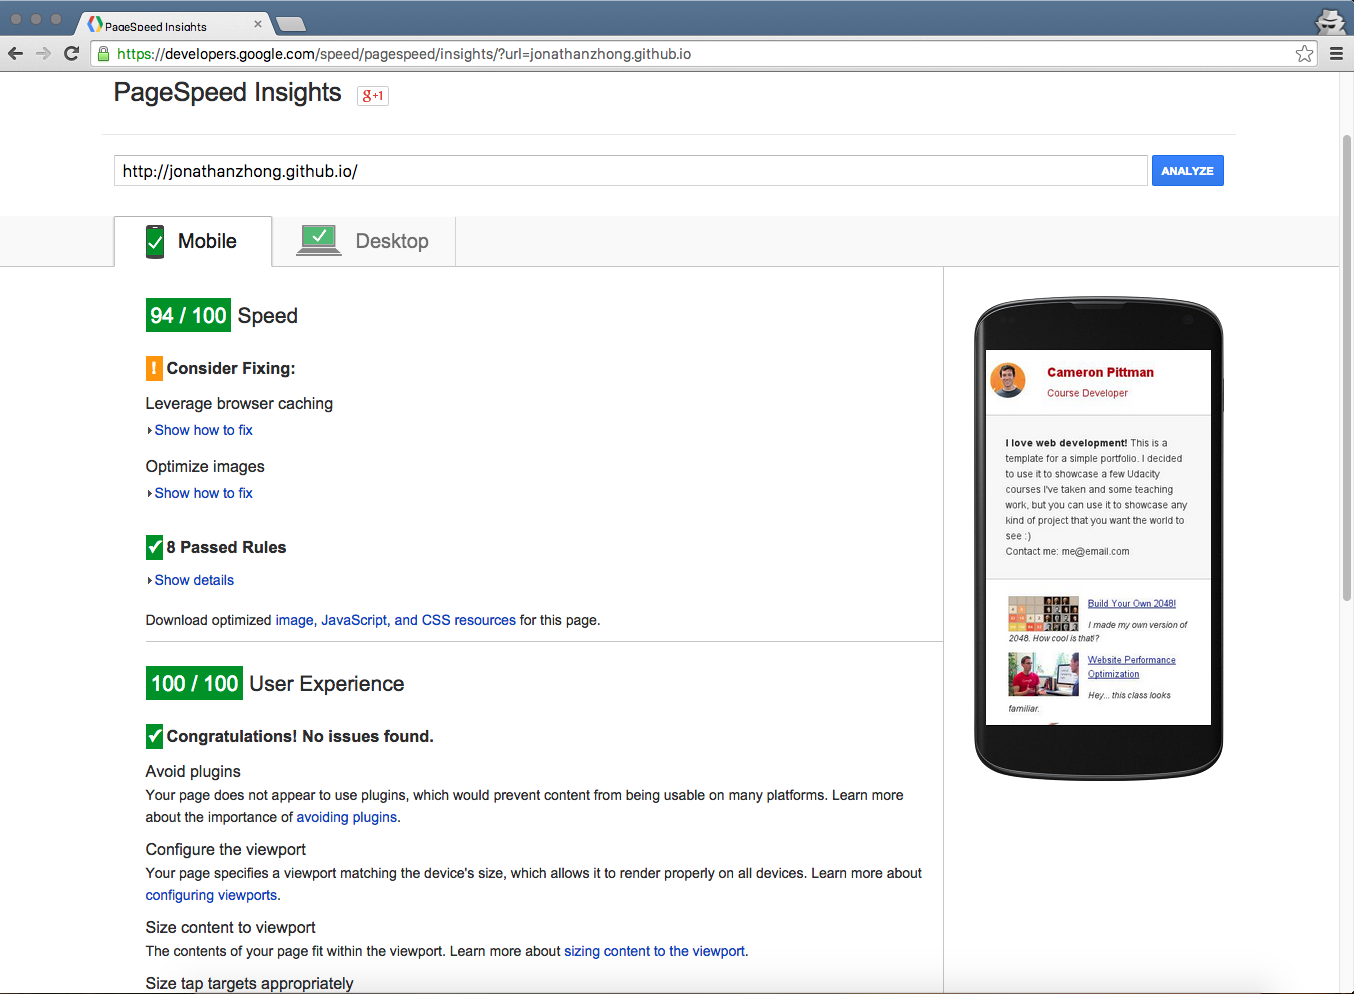
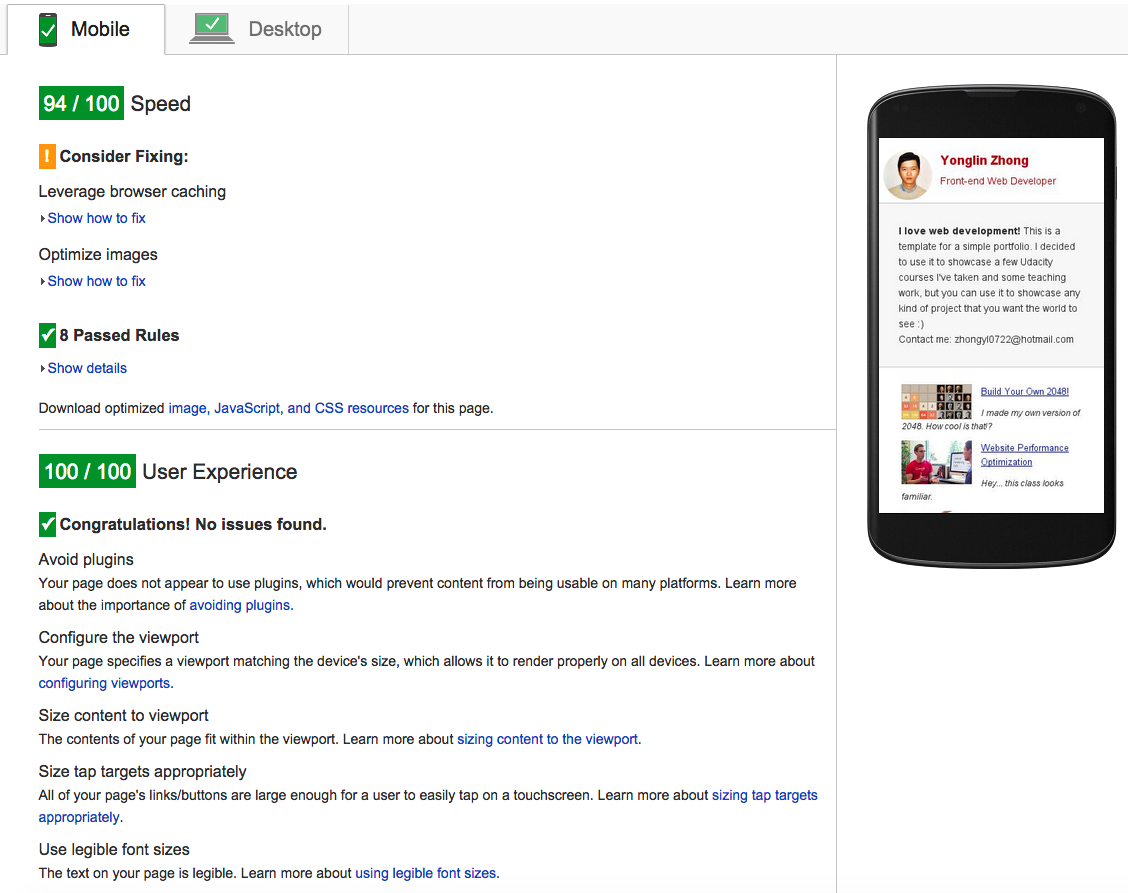
update

Changed region(s): [[0.0, 0.0, 1.0, 1.0]]

diff --git a/views/js/main.js b/views/js/main.js
@@ -455,7 +455,8 @@ var resizePizzas = function(size) {
     var pizzaArray = document.getElementsByClassName("randomPizzaContainer");
     var dx = determineDx(pizzaArray[0], size);
     var newwidth = (pizzaArray[0].offsetWidth + dx) + 'px';
-    for (var i = 0; i < pizzaArray.length; i++) {
+    //Submit-nitpick: for loop syntax change
+    for (var i = 0, len = pizzaArray.length; i < len; i++) {
       pizzaArray[i].style.width = newwidth;
     }
   }
@@ -510,9 +511,9 @@ function updatePositions() {
   var moveScroll = document.body.scrollTop / 1250;
   var phase;
   for (var i = 0; i < itemsLength; i++) {
-    phase = Math.sin(moveScroll + (i % 5));
-    //ToDO: Reducing layoutime by using CSS3 Hardware acceleration and get rid of the need to trigger a re-layout
-    items[i].style.transform = 'translateX(' + items[i].basicLeft + 100 * phase + 'px)';
+    phase = Math.sin(moveScroll + (i % 5)) * 100;
+    //ToDo: Reducing layoutime by using CSS3 Hardware acceleration and get rid of the need to trigger a re-layout
+    items[i].style.transform = 'translateX(' + phase + 'px)';
   }
 
   // User Timing API to the rescue again. Seriously, it's worth learning.
@@ -533,17 +534,16 @@ window.addEventListener('scroll', updatePositions);
 document.addEventListener('DOMContentLoaded', function() {
   var cols = 8;
   var s = 256;
-  var elem = document.createElement('img');
+  var elem;
   for (var i = 0; i < 40; i++) {
+    elem = document.createElement('img');
     elem.className = 'mover';
     elem.src = "images/pizza.png";
     elem.style.height = "100px";
     elem.style.width = "73.333px";
-    elem.basicLeft = (i % cols) * s;
     elem.style.top = (Math.floor(i / cols) * s) + 'px';
     elem.style.left = (i % cols) * s + 'px';
-    document.querySelector("#movingPizzas1").appendChild(elem);
-
+    document.getElementById("movingPizzas1").appendChild(elem);
   }
   updatePositions();
 });

diff --git a/index.html b/index.html
@@ -7,8 +7,15 @@
     <meta name="author" content=" FILL ME IN ">
     <title>Yonglin Zhong: Portfolio</title>
 
-    <!-- Hmm, what is the impact of web fonts on speed? Measure it... -->
-    <link href="//fonts.googleapis.com/css?family=Open+Sans:400,700" rel="stylesheet">
+
+    <!-- To embed your Collection into your web page  -->
+    <style>@font-face {
+      font-family: 'Roboto',
+      font-style: normal,
+      font-weight: 400,
+      src: url(http://fonts.googleapis.com/css?family=Roboto) format('woff')
+    }
+    </style>
 
 
     <!-- TODO: Use inline CSS.style -->
@@ -21,7 +28,7 @@
 		  -webkit-text-size-adjust: none;
 		}
 		body { margin: 0; font-size: 14px; line-height: 1.61; font-weight: 400; }
-		body, button, input, select, textarea { font-family: 'Open Sans', sans-serif; color: #333; }
+		body, button, input, select, textarea { font-family: 'Roboto', sans-serif; color: #333; }
 
 		a { color: #12C; }
 		a:visited { color: #61C; }
@@ -29,7 +36,7 @@
 		a:hover, a:active { color: #c00; outline: 0; }
 
 		b, strong { font-weight: bold; }
-		pre, code { font-family: monospace, monospace; font-size: 1em; }
+		pre, code { font-family: 'Roboto', sans-serif; font-size: 1em; }
 		ul, ol { margin: 1em 0; padding: 0 0 0 20px; }
 		img { border: 0; max-width: 100%; }
 
@@ -121,7 +128,7 @@
       ga('create', 'UA-XXXX-Y');
       ga('send', 'pageview');
     </script>
-    <script src="http://www.google-analytics.com/analytics.js"></script>
-    <script async src="js/perfmatters.min.js"></script>
+    <script src="http://www.google-analytics.com/analytics.js" async></script>
+    <script src="js/perfmatters.min.js" async></script>
   </body>
 </html>

diff --git a/views/pizza.html b/views/pizza.html
@@ -36,7 +36,7 @@
     </div>
     <div id="callToAction" class="row">
       <div class="col-md-4">
-        <img src="images/pizzeria.jpg" class="img-responsive"> <!-- Image credit to: http://commons.wikimedia.org/wiki/File:HK_TST_night_%E5%98%89%E8%98%AD%E9%81%93_Granville_Road_restaurant_Paisano's_Pizzeria_pizza_Dec-2013.JPG -->
+        <img src="images/pizzeriaOriginal.jpg" class="img-responsive"> <!-- Image credit to: http://commons.wikimedia.org/wiki/File:HK_TST_night_%E5%98%89%E8%98%AD%E9%81%93_Granville_Road_restaurant_Paisano's_Pizzeria_pizza_Dec-2013.JPG -->
       </div>
       <div class="col-md-8">
         <div class="row">

diff --git a/README.md b/README.md
@@ -18,6 +18,7 @@ Optimize a provided website with a number of optimization- and performance-relat
   * Using inline CSS to avoid default CSS rendering blocking
   * Minify style.css file, utilize media query to 'print.css' to a*void needless download
   * Minify JavaScript file, moving the script section to bottom of HTML
+  * @import url(http://fonts.googleapis.com/css?family=Open+Sans);
 - main.js
   * First stage optimization: move the below code outside the for loop
 `var elem = document.createElement('img')
@@ -43,3 +44,40 @@ Optimize a provided website with a number of optimization- and performance-relat
 - Achieving 60FPS
 
 ![60fps](60fps.png)
+
+##Useful Reference:
+  https://developer.mozilla.org/en-US/docs/Web/API/Document/getElementById
+  - Comments in JS files:
+  http://usejsdoc.org
+  https://jashkenas.github.io/docco/
+  http://www.hongkiat.com/blog/source-code-comment-styling-tips/
+  - Documentation in README:
+  http://stackoverflow.com/questions/2304863/how-to-write-a-good-readme
+  https://robots.thoughtbot.com/how-to-write-a-great-readme
+  http://www.wikihow.com/Write-a-Read-Me
+  http://docs.writethedocs.org/writing/beginners-guide-to-docs
+  - Built Toos(Gulp & Grunt):
+  Gulp:
+  http://yeoman.io/blog/performance-optimization.html
+  https://parall.ax/blog/view/3003/grunt-vs-gulp-js-a-comparison
+  https://github.com/gulpjs/gulp/blob/master/docs/getting-started.md
+  https://markgoodyear.com/2014/01/getting-started-with-gulp/
+  http://alistapart.com/blog/post/getting-started-with-gulp
+  https://isimmons.github.io
+  Grunt:
+  http://gruntjs.com/getting-started
+  https://scotch.io/tutorials/a-simple-guide-to-getting-started-with-grunt
+  http://24ways.org/2013/grunt-is-not-weird-and-hard/
+  - CSS:
+  https://developers.google.com/speed/docs/insights/OptimizeCSSDelivery
+  https://developers.google.com/speed/docs/insights/InlineCSS
+  https://developers.google.com/speed/pagespeed/module/filter-css-inline-google-fonts
+  https://developer.mozilla.org/en/docs/Web/HTML/Element/link
+  - Images:
+  https://developers.google.com/speed/docs/insights/OptimizeImages
+  https://kraken.io
+  https://compressor.io
+  http://www.giftofspeed.com/optimize-images/
+
+
+
